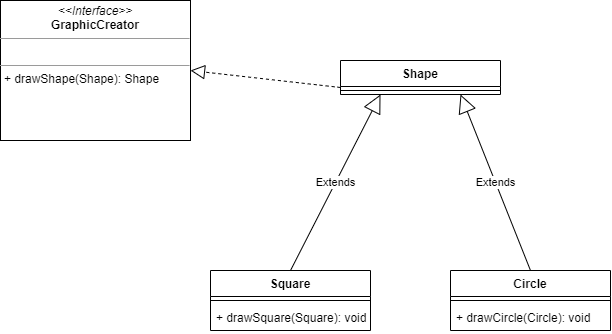
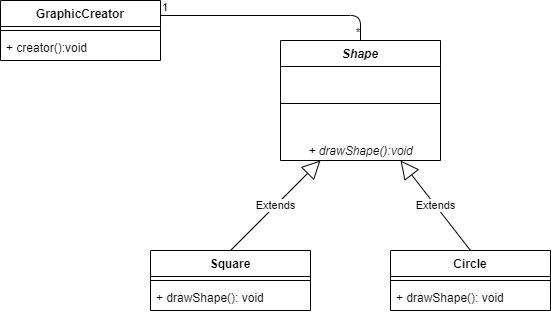
Updated Task2C

diff --git a/Lab 6/Exercise 2/Task 2/src/Square.java b/Lab 6/Exercise 2/Task 2/src/Square.java
@@ -7,4 +7,10 @@ public class Square extends Shape {
     public void drawSquare() {
         // Some drawing is done.
     }
+
+    @Override
+    public void drawShape() {
+        // TODO Auto-generated method stub
+        
+    }
 }
